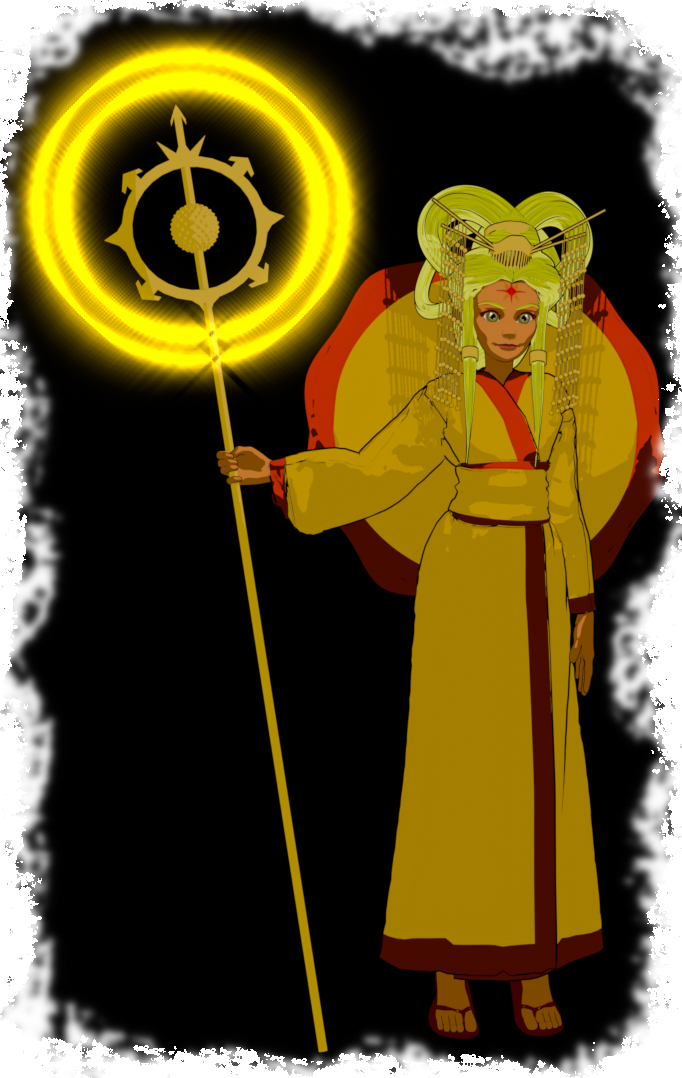
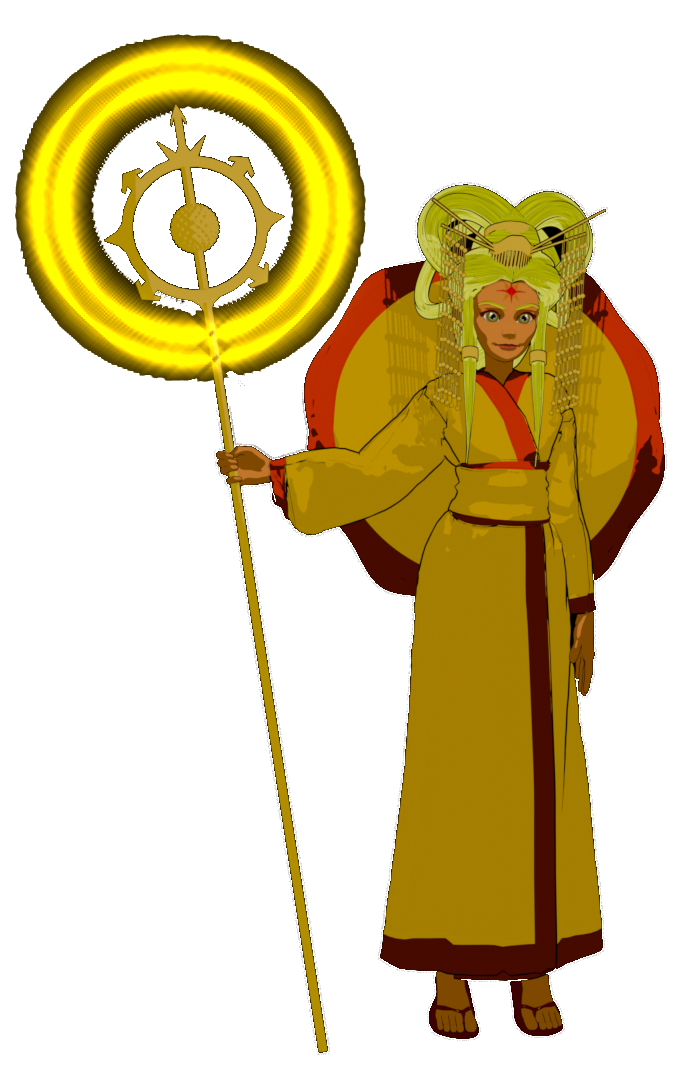
Update image

diff --git a/assets/css/style.css b/assets/css/style.css
@@ -181,3 +181,7 @@ and (min-device-width : 768px)  {
   
 }
 
+.image_multiply 
+{
+  mix-blend-mode: multiply;
+}
